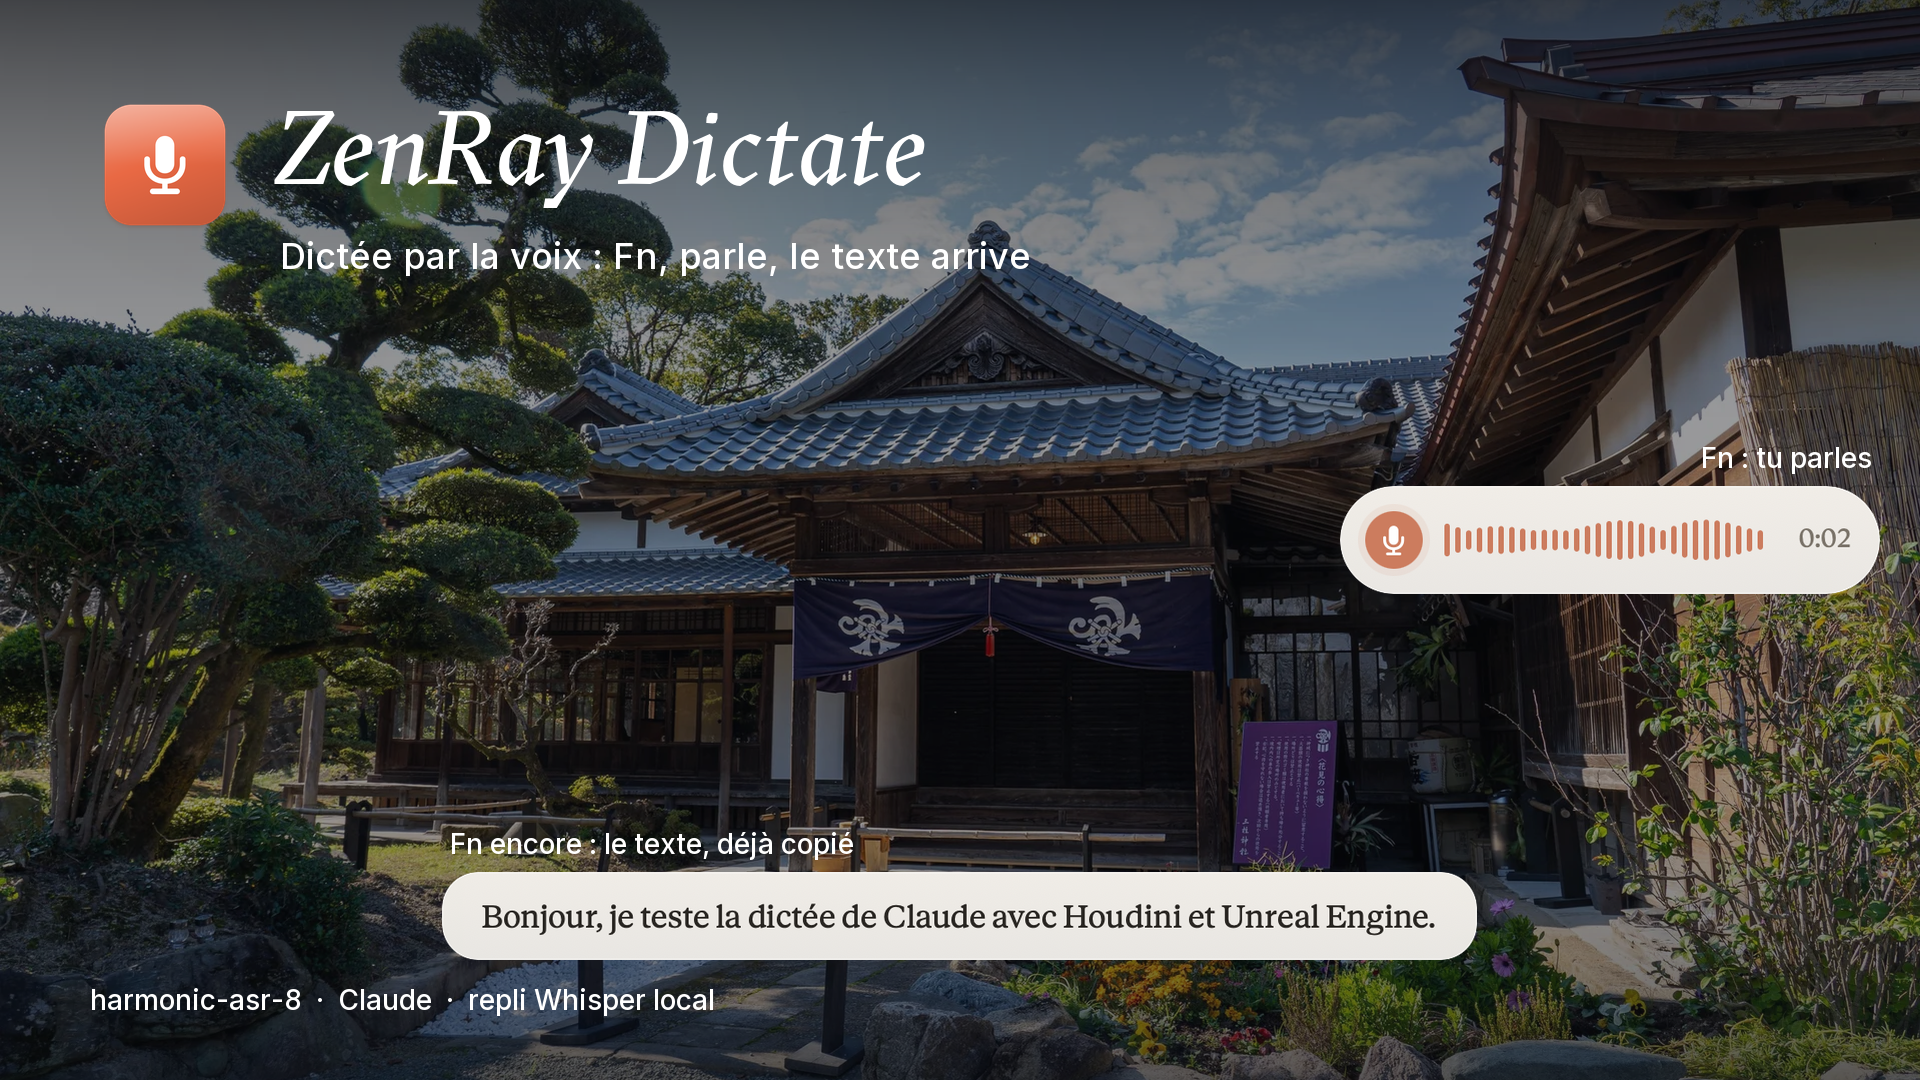
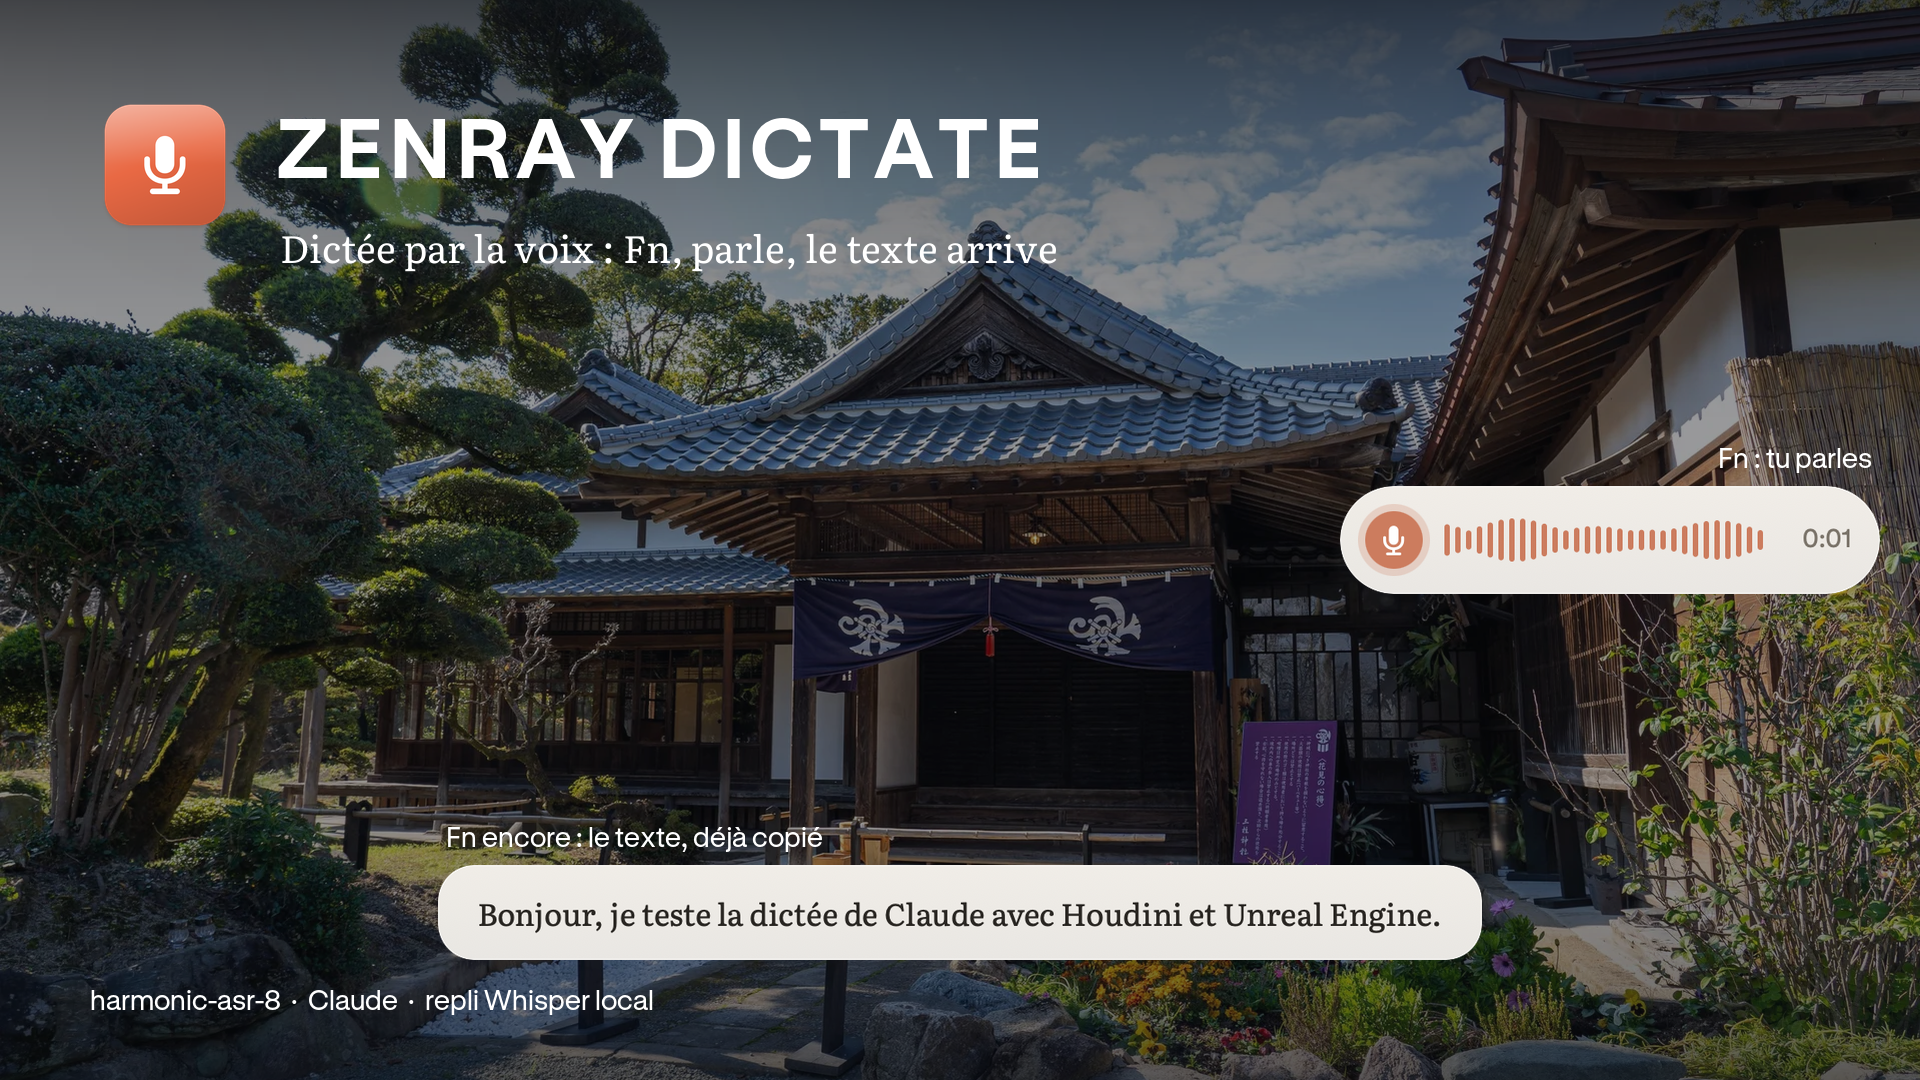
Literata and GT Standard L by default: overlay text, numbers, sheet (version 3.16, 26 October 2026)

diff --git a/Sources/ZenRayDictate/ClaudeOverlay.swift b/Sources/ZenRayDictate/ClaudeOverlay.swift
@@ -38,7 +38,10 @@ final class ClaudeOverlay {
         static let clayDeep = NSColor(srgbRed: 184/255, green: 92/255, blue: 62/255, alpha: 1)
         static let ink = NSColor(srgbRed: 42/255, green: 38/255, blue: 34/255, alpha: 1)
         static let muted = NSColor(srgbRed: 124/255, green: 115/255, blue: 104/255, alpha: 1)
-        static let titleFont = "GTSectraLCG-RegularItalic", textFont = "AnthropicSerif-Regular", uiFont = "InterVariable-Medium"
+        // 26 October 2026: default trio = Literata (read text), GT Standard L Bold (titles), GT Standard L Regular (UI and every number).
+        // The earlier drawings (GT Sectra, Anthropic Serif, Inter) stay valid alternatives: change these three names only.
+        // FR : trio par défaut ; les anciennes polices restent des alternatives, il suffit de changer ces trois noms.
+        static let titleFont = "GTStandard-LBold", textFont = "Literata-Regular", uiFont = "GTStandard-LRegular", numberFont = "GTStandard-LRegular"
     }
 
     var onInsert: (() -> Void)?
@@ -193,7 +196,7 @@ final class ClaudeOverlay {
         button.addSubview(mic)
         glass.addSubview(button)
         timer.frame = NSRect(x: w - 54, y: (h - 20) / 2, width: 40, height: 20)
-        timer.font = NSFont(name: Tokens.textFont, size: 14) ?? .systemFont(ofSize: 14)
+        timer.font = NSFont(name: Tokens.numberFont, size: 14) ?? .systemFont(ofSize: 14)
         timer.textColor = Tokens.muted; timer.alignment = .right
         glass.addSubview(timer)
         bars.frame = NSRect(x: 14 + b + 12, y: (h - Tokens.barMax) / 2, width: w - (14 + b + 12) - 62, height: Tokens.barMax)

diff --git a/Scripts/MakeSheet.py b/Scripts/MakeSheet.py
@@ -22,9 +22,12 @@ PARAMS = {
     'title': 'ZenRay Dictate',
     'subtitle': 'Dictée par la voix : Fn, parle, le texte arrive',
     'tag': 'harmonic-asr-8',
-    'font_title': '/Users/zenray/Library/Fonts/GT-Sectra-LCGV-Regular-Italic.otf',
-    'font_ui': '/Users/zenray/Library/Fonts/InterVariable.ttf',
-    'font_title_size': 104, 'font_subtitle_size': 36, 'font_label_size': 28, 'title_gap': 40,
+    # 26 October 2026: default trio = Literata (read text), GT Standard L Bold capitals (titles), GT Standard L Regular (UI).
+    # Alternatives stay valid: set font_title to GT-Sectra-LCGV-Regular.otf, font_ui to InterVariable.ttf, etc.
+    'font_title': '/Users/zenray/Library/Fonts/GT-Standard-L-Standard-Bold.otf', 'title_case': 'upper', 'title_track': 0.06,
+    'font_body': '/Users/zenray/Library/Fonts/Literata[opsz,wght].ttf', 'body_variation': 'Regular',
+    'font_ui': '/Users/zenray/Library/Fonts/GT-Standard-L-Standard-Regular.otf', 'ui_variation': None,
+    'font_title_size': 84, 'font_subtitle_size': 38, 'font_label_size': 28, 'title_gap': 44,
     'margin': 90,
 }
 
@@ -34,6 +37,14 @@ def font(path, size, variation=None):
         try: f.set_variation_by_name(variation)
         except Exception: pass
     return f
+
+def tracked(draw, xy, text, fnt, fill, track):
+    # letter-spacing in em; PIL has none, so each glyph is placed by its own advance. / interlettrage en em.
+    x, y = xy
+    for ch in text:
+        draw.text((x, y), ch, font=fnt, fill=fill)
+        x += fnt.getlength(ch) + track * fnt.size
+    return x
 
 def build(out):
     P = PARAMS; W, H = P['size']
@@ -56,8 +67,9 @@ def build(out):
     icon = Image.open(os.path.join(ROOT, P['icon'])).convert('RGBA').resize((P['icon_size'], P['icon_size']), Image.LANCZOS)
     bg.alpha_composite(icon, (P['margin'], P['margin']))
     tx = P['margin'] + P['icon_size'] + 36
-    d.text((tx, P['margin'] - 8), P['title'], font=font(P['font_title'], P['font_title_size']), fill=(255, 255, 255, 255))
-    d.text((tx + 4, P['margin'] + P['font_title_size'] + P['title_gap']), P['subtitle'], font=font(P['font_ui'], P['font_subtitle_size'], 'Medium'), fill=(255, 255, 255, 215))
+    title = P['title'].upper() if P['title_case'] == 'upper' else P['title']
+    tracked(d, (tx, P['margin'] + 6), title, font(P['font_title'], P['font_title_size']), (255, 255, 255, 255), P['title_track'])
+    d.text((tx + 4, P['margin'] + P['font_title_size'] + P['title_gap']), P['subtitle'], font=font(P['font_body'], P['font_subtitle_size'], P['body_variation']), fill=(255, 255, 255, 220))
 
     def widget(name):
         img = Image.open(os.path.join(ROOT, P[name])).convert('RGBA')
@@ -68,7 +80,7 @@ def build(out):
     kx = (W - card.width) // 2; ky = H - P['card_bottom'] - card.height
     bg.alpha_composite(card, (kx, ky))
 
-    label = font(P['font_ui'], P['font_label_size'], 'Medium')
+    label = font(P['font_ui'], P['font_label_size'], P['ui_variation'])
     capsule_label = 'Fn : tu parles'
     d.text((cx + capsule.width - d.textlength(capsule_label, font=label) - 8, cy - 46), capsule_label, font=label, fill=(255, 255, 255, 240))
     d.text((kx + 8, ky - 46), 'Fn encore : le texte, déjà copié', font=label, fill=(255, 255, 255, 240))

diff --git a/README.md b/README.md
@@ -1,5 +1,9 @@
 ![ZenRay Dictate: the recording capsule on the right and the result card at the bottom, both in Claude orange](docs/ZenRayDictate-sheet.png)
 
+## 26 October 2026: Literata and GT Standard L by default (version 3.16)
+
+The received text of the card is set in Literata, the timer and the buttons in GT Standard L Regular (numbers always GT Standard L), the titles of the presentation sheet in GT Standard L Bold capitals. They are the default trio; GT Sectra, Anthropic Serif and Inter stay valid alternatives. The three font names are `ClaudeOverlay.Tokens.titleFont`, `textFont`, `uiFont`, `numberFont`, and `build.sh` bundles the drawings. `Scripts/MakeSheet.py` carries the same trio in `PARAMS`. (26 October 2026)
+
 ## 26 October 2026: red interface for the local Whisper, silence gate and new icon (version 3.15)
 
 The interface tells which engine answers. Claude is terracotta; whenever the local Whisper takes over, the capsule and the card turn red (tint, border, microphone button, waveform): from the first second if the engine is local or Claude is known to be down, and the moment the fallback starts otherwise (`ClaudeOverlay.Theme`, values in `ClaudeOverlay.Tokens`, `localAccent` `#D62828`). Proven in the real flow with a dead Claude server: the capsule stays terracotta while recording, turns red when `health: local Whisper fallback used` is logged, and the card is red (`docs/widgets/real-flow-whisper-fallback-sequence.png`). `ZenRayDictate --overlay-preview local` shows the red widgets without speaking. (26 October 2026)
